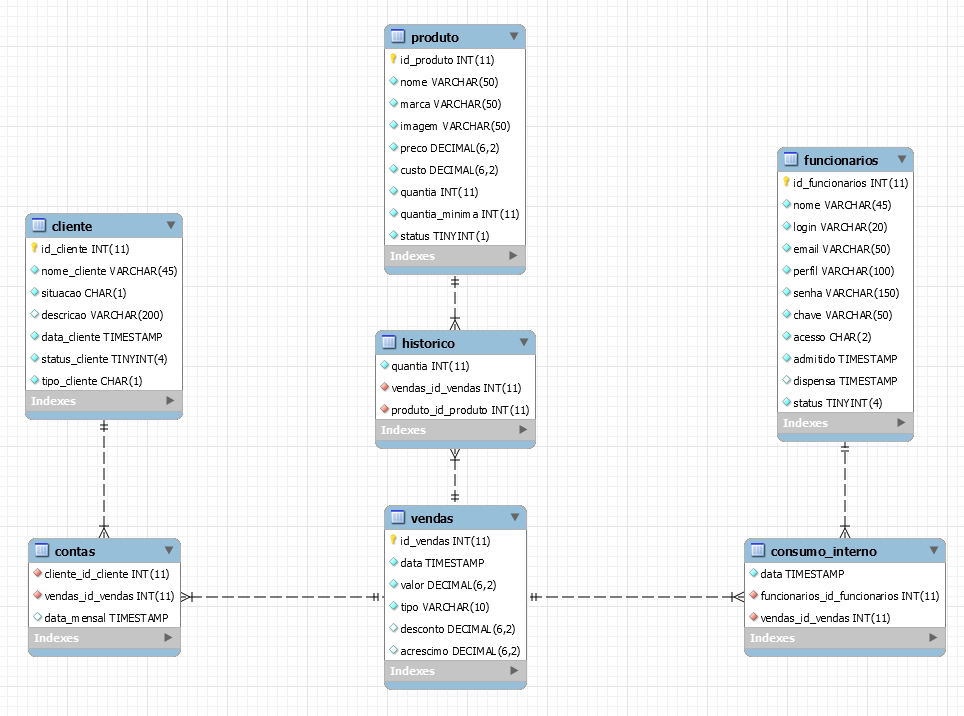
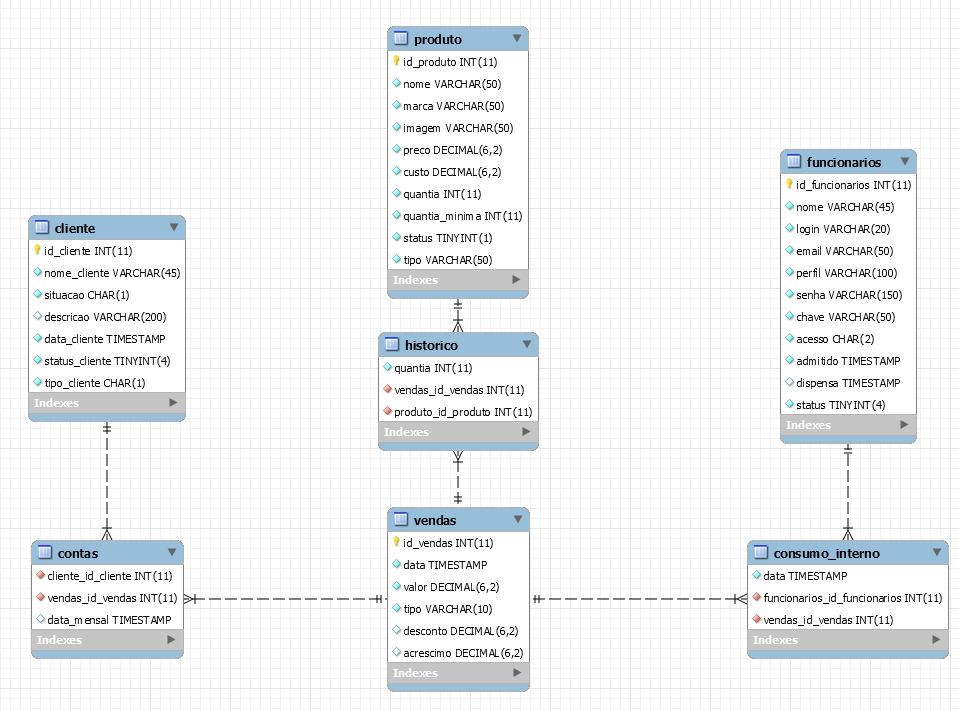
Atributo tipo adicionado a tabela produto do Banco

Changed region(s): [[0.0, 0.031, 0.9979, 0.9915], [0.7862, 0.1859, 0.9677, 0.6507]]

diff --git a/controller/produto/produto.Salvar.php b/controller/produto/produto.Salvar.php
@@ -22,4 +22,3 @@ if (move_uploaded_file($_FILES['imagem']['tmp_name'], $imgDir . $imagemF)) {
     $imagem = $imgDir . $imagemF;
     $produto->cadastroProduto($nome, $marca, $imagem, $preco, $custo, $quantia, $quantia_minima, $tipo);
 }
-//header("Location: ../../view/produto/produtos.Main.php");
